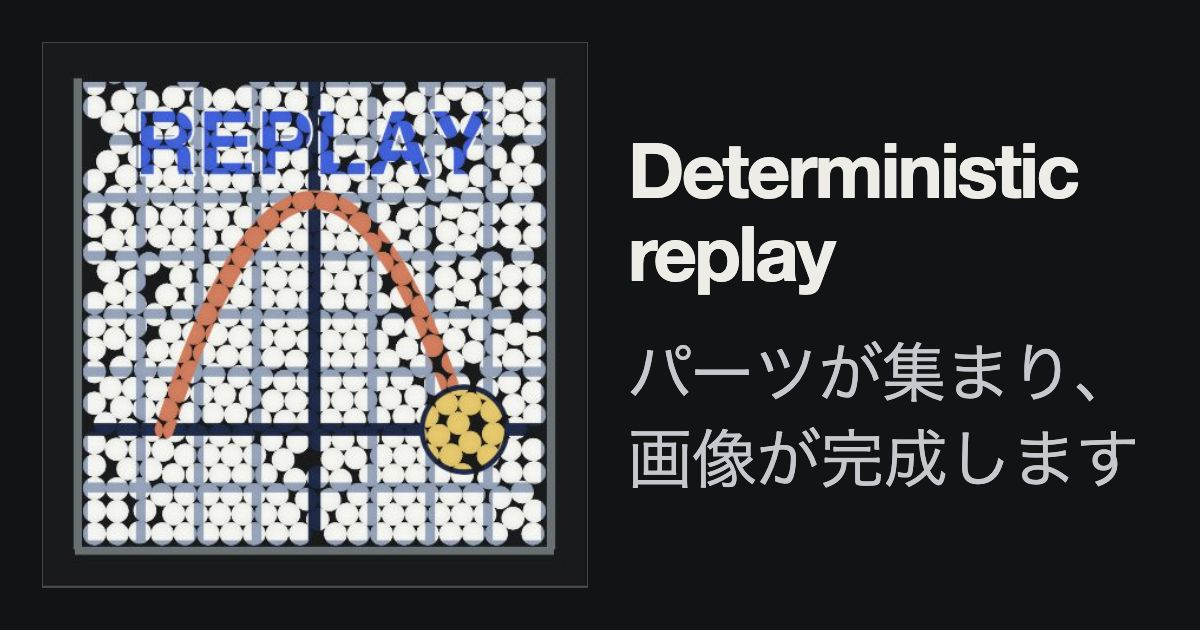
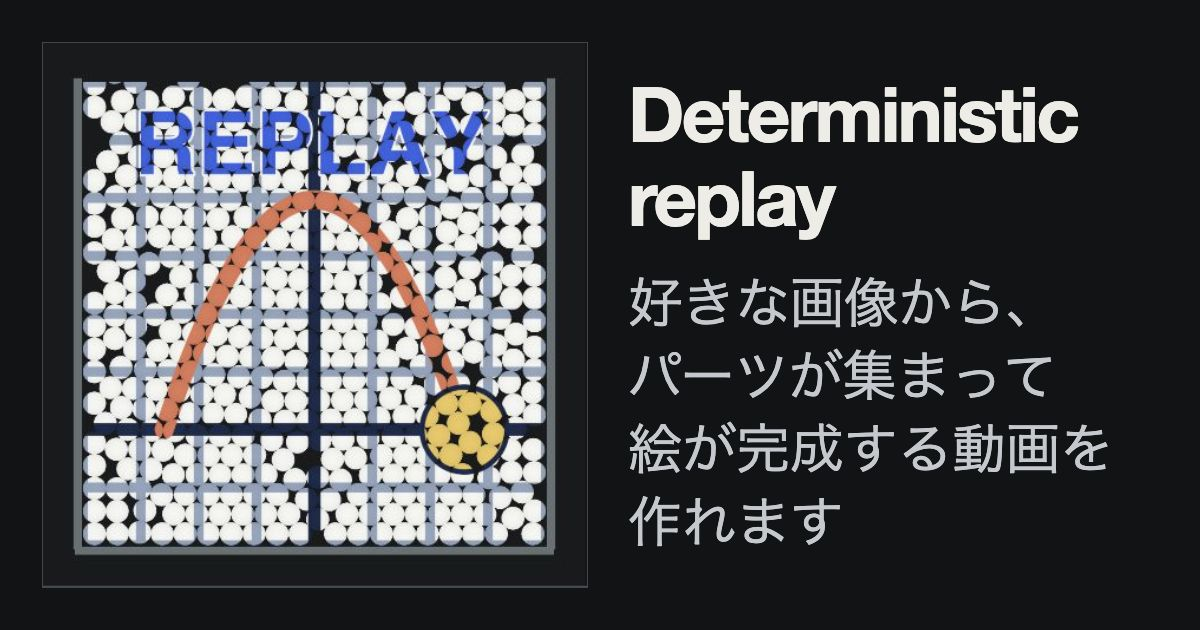
descriptionの文言調整

Changed region(s): [[0.5242, 0.1206, 0.925, 0.6333], [0.5242, 0.6635, 0.9558, 0.8746]]

diff --git a/src/index.html b/src/index.html
@@ -4,11 +4,11 @@
     <meta charset="UTF-8" />
     <meta name="viewport" content="width=device-width, initial-scale=1.0" />
     <meta name="theme-color" content="#111315" />
-    <meta name="description" content="パーツが集まり、画像が完成します。正方形の画像を使った物理シミュレーションをプレビューし、MP4として書き出せます。" />
+    <meta name="description" content="好きな画像から、パーツが集まって絵が完成する動画を作れます。正方形の画像に対応し、動画はMP4形式で書き出せます。" />
     <meta property="og:type" content="website" />
     <meta property="og:site_name" content="Deterministic replay" />
     <meta property="og:title" content="Deterministic replay" />
-    <meta property="og:description" content="パーツが集まり、画像が完成します。正方形の画像を使った物理シミュレーションをプレビューし、MP4として書き出せます。" />
+    <meta property="og:description" content="好きな画像から、パーツが集まって絵が完成する動画を作れます。正方形の画像に対応し、動画はMP4形式で書き出せます。" />
     <meta property="og:url" content="https://novogrammer.github.io/deterministic-replay/" />
     <meta property="og:image" content="https://novogrammer.github.io/deterministic-replay/images/ogp.png" />
     <meta property="og:image:type" content="image/png" />
@@ -18,7 +18,7 @@
     <meta property="og:locale" content="ja_JP" />
     <meta name="twitter:card" content="summary_large_image" />
     <meta name="twitter:title" content="Deterministic replay" />
-    <meta name="twitter:description" content="パーツが集まり、画像が完成します。" />
+    <meta name="twitter:description" content="好きな画像から、パーツが集まって絵が完成する動画を作れます。" />
     <meta name="twitter:image" content="https://novogrammer.github.io/deterministic-replay/images/ogp.png" />
     <meta name="twitter:image:alt" content="Square trayの完成状態と、Deterministic replayのアプリ名・説明" />
     <link rel="icon" type="image/svg+xml" href="/images/replay.svg" />
@@ -47,7 +47,7 @@
           </div>
         </section>
         <aside class="panel" aria-label="シーンと動画の設定">
-          <div class="panel__intro"><h2 class="panel__title">パーツが集まり、画像が完成します</h2></div>
+          <div class="panel__intro"><h2 class="panel__title">好きな画像から、パーツが集まって絵が完成する動画を作れます</h2></div>
           <div class="panel__section">
             <label class="field__label" for="scene">シーン</label>
             <select class="field__select" id="scene" data-control disabled>

diff --git a/README.md b/README.md
@@ -1,6 +1,6 @@
 # deterministic-replay
 
-パーツが集まり、画像が完成する静的Webアプリ。正方形の画像を読み込み、物理シミュレーションが順方向に進んで画像が揃う様子をループでプレビューし、MP4として書き出せる。パーツの形状や動きはシーンごとに定義する。Vite、Three.js / TSL、Rapier3D、Mediabunnyを使用する。
+好きな画像から、パーツが集まって絵が完成する動画を作れます。正方形の画像に対応した静的Webアプリ。物理シミュレーションが順方向に進んで画像が揃う様子をループでプレビューできる。パーツの形状や動きはシーンごとに定義する。Vite、Three.js / TSL、Rapier3D、Mediabunnyを使用する。
 
 公開ページ: [Deterministic replay](https://novogrammer.github.io/deterministic-replay/)
 
